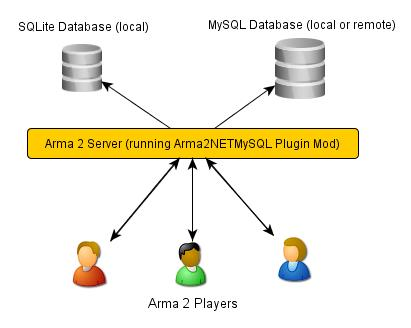
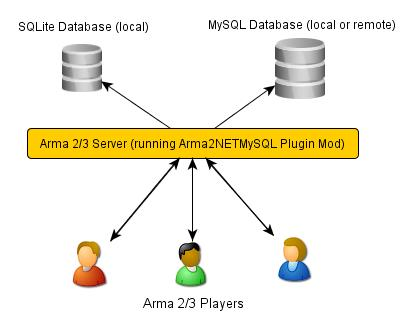
switch wording in readme from just Arma 2 to include Arma 3

Changed region(s): [[0.0876, 0.3963, 0.8467, 0.4573], [0.3504, 0.8841, 0.6131, 0.9451]]

diff --git a/ReadMe.html b/ReadMe.html
@@ -30,12 +30,13 @@
 <p>Links:</p>
 <ul>
 	<li><a href="https://github.com/firefly2442/Arma2NETMySQLPlugin">Arma2NETMySQLPlugin</a></li>
-	<li><a href="https://github.com/firefly2442/Arma2NetMySQLPlugin-ExampleMission">Arma2NETMySQL Plugin Example Mission</a></li>
+	<li><a href="https://github.com/firefly2442/Arma2NetMySQLPlugin-ExampleMission">Arma2NETMySQL Plugin Arma 2 Example Mission</a></li>
+	<li><a href="https://github.com/firefly2442/Arma2NetMySQLPlugin-Arma3-ExampleMission">Arma2NETMySQL Plugin Arma 3 Example Mission</a></li>
 </ul>
 
-<p>This program acts as an intermediary between Arma2 and a MySQL or SQLite database.  It uses the
+<p>This program acts as an intermediary between Arma2/Arma3 and a MySQL or SQLite database.  It uses the
 <a href="https://dev-heaven.net/projects/a2n">Arma2NET</a> wrapper system.  It is written in C#.  The program has to be run on the
-same system as your Arma2 server, however, the MySQL database can be either local or remote.  The SQLite database runs on the 
+same system as your Arma2/Arma3 server, however, the MySQL database can be either local or remote.  The SQLite database runs on the 
 local machine.</p>
 
 <p>History:</p>
@@ -54,6 +55,7 @@ system as created by <a href="http://forums.bistudio.com/member.php?30502-KH-Jma
 for saving data.  In addition, <a href="https://dev-heaven.net/projects/mso/wiki">MSO</a>, a modular mission framework uses
 it for saving information.
 </p>
+<p>With the recent Arma3 Alpha release, testing is ongoing.  However, the functionality appears to be working just like in Arma 2.</p>
 
 <img src="images/arma2mysql_graphic.jpg" />
 
@@ -79,13 +81,21 @@ To run the plugin:
 		for 32-bit Windows (.NET Framework 4.0)</a> The plugin has been successfully tested with version 1.0.84.0 (sqlite-netFx40-setup-bundle-x86-2010-1.0.84.0.exe)</li>
 	</ul>
 	<li><a href="http://www.microsoft.com/download/en/details.aspx?id=24872">Microsoft .NET Framework 4 Client Profile</a></li>
-	<li>Arma2OA Beta version 87640 or later (full client or dedicated server)</li>
-		<ul>
-			<li>See <a href="https://dev-heaven.net/issues/31028">here</a> for a note about Windows dedicated servers and required files.</li>
-			<li>I would recommend running whatever <a href="http://www.arma2.com/beta-patch.php" target="_blank">Beta version</a> is
-			the latest, while it may not be super stable, it should have the latest features.</li>
-		</ul>
-	</li>
+	<li>Arma 2 or Arma 3</li>
+	<ul>
+		<li>Arma2OA Beta version 87640 or later (full client or dedicated server)</li>
+			<ul>
+				<li>See <a href="https://dev-heaven.net/issues/31028">here</a> for a note about Windows dedicated servers and required files.</li>
+				<li>I would recommend running whatever <a href="http://www.arma2.com/beta-patch.php" target="_blank">Beta version</a> is
+				the latest, while it may not be super stable, it should have the latest features.</li>
+			</ul>
+		</li>
+		<li>Arma 3</li>
+			<ul>
+				<li>The recent Arma 3 Alpha is undergoing heavy development and new versions are being released constantly.  You can stay up-to-date
+				with Steam.</li>
+			</ul>
+	</ul>
 	<li><a href="https://dev-heaven.net/projects/a2n" target="_blank">Arma2NET</a>, this should already be included if you downloaded a compiled
 	version of this plugin.</li>
 </ul>
@@ -93,15 +103,15 @@ To run the plugin:
 
 <a name="howto"><h2>How To Use Arma2NETMySQL</h2></a>
 
-<p>Arma2NETMySQL looks two places for the relevant files and folders.  First, it checks the Arma2 root directory.  If it can't find
+<p>Arma2NETMySQL looks two places for the relevant files and folders.  First, it checks the Arma2/Arma3 root directory.  If it can't find
 them there, it looks in the AppData folder.  I would recommend using the AppData location if possible.  This makes future upgrades
-and changes easier to manage.  However, some people on limited rental servers may need to put them in the root Arma2 folder.
+and changes easier to manage.  However, some people on limited rental servers may need to put them in the root Arma2/Arma3 folder.
 Make sure the file/folder structure matches one of these.  Don't put some files in one location and some in the other,
 that could result in problems.</p>
 
 <ul>
 	<li>
-		<pre>This is just an example location, you'll have to figure out where your Arma2 folder is.</pre>
+		<pre>This is just an example location for Arma 2, you'll have to figure out where your Arma game folder is.</pre>
 		<pre>E:\Program Files\Steam\steamapps\common\arma 2 operation arrowhead\</pre>
 		<pre>E:\Program Files\Steam\steamapps\common\arma 2 operation arrowhead\Databases.txt</pre>
 		<pre>E:\Program Files\Steam\steamapps\common\arma 2 operation arrowhead\sqlite\</pre>
@@ -123,7 +133,7 @@ this should already be included and already setup correctly.</p>
 
 <ul>
 	<li>
-		<pre>This is just an example location, you'll have to figure out where your Arma2 folder is.</pre>
+		<pre>This is just an example location for Arma 2, you'll have to figure out where your Arma game folder is.</pre>
 		<pre>E:\Program Files\Steam\steamapps\common\arma 2 operation arrowhead\@Arma2NET\</pre>
 		<pre>E:\Program Files\Steam\steamapps\common\arma 2 operation arrowhead\@Arma2NET\Addins\</pre>
 		<pre>E:\Program Files\Steam\steamapps\common\arma 2 operation arrowhead\@Arma2NET\AddIns\Arma2NETMySQLPlugin\</pre>
@@ -200,15 +210,23 @@ this should already be included and already setup correctly.</p>
 				to create manually.</li>
 			</ul>
 	</ol>
-	<li>Run Arma2 and add @Arma2NET as a mod.  For example your command line parameters (for the server which connects to the database):
+	<li>Run Arma2/Arma3 and add @Arma2NET as a mod.  For example your command line parameters (for the server which connects to the database):
 		<pre>-mod=expansion\beta;expansion\beta\expansion;@Arma2NET</pre>
 		<p>This plugin doesn't require any other third party mods like ACE or CBA.  But, they do have some nice utility functions
 		and features that may be helpful when you make your missions.</p>
-		<p>Arma2 player clients do not need to do any of this.  They will interact with the Arma2 server and through SQF scripting, so you can
+		<p>Arma2/Arma3 player clients do not need to do any of this.  They will interact with the Arma2/Arma3 server and through SQF scripting, so you can
 		pass the information from the database back to them or use it however you need.</p>
 	</li>
-	<li>Look at the <a href="https://github.com/firefly2442/Arma2NetMySQLPlugin-ExampleMission">example mission</a>
-	for how to use the SQF scripting and get data inside the game.</li>
+	<li>For Arma 2:</li>
+		<ul>
+			<li>Look at the <a href="https://github.com/firefly2442/Arma2NetMySQLPlugin-ExampleMission">Arma 2 example mission</a>
+			for how to use the SQF scripting and get data inside the game.</li>
+		</ul>
+	<li>For Arma 3:</li>
+		<ul>
+			<li>Look at the <a href="https://github.com/firefly2442/Arma2NetMySQLPlugin-Arma3-ExampleMission">Arma 3 example mission</a>
+			for how to use the SQF scripting and get data inside the game.</li>
+		</ul>
 	<li>Use the array of arrays that are returned back.</li>
 	<li>Enjoy.</li>
 </ul>
@@ -223,21 +241,22 @@ it will return the string "TooLong".  Then you know you will need to limit the n
 you can use <a href="https://dev.mysql.com/doc/refman/5.0/en/select.html">the limit parameter</a>, or in SQLite,
 <a href="https://www.sqlite.org/lang_select.html">the limit parameter</a>.  This is a limitation of
 Arma2 so don't ask for this to be fixed.</p>
+<p>The length limit for Arma 3 appears to be similar, however, this may change in the future.</p>
 <p>Currently, commas cannot be used as data to be sent back and forth because the system uses commas to identify
 splitting up the database columns.  If you have a suggestion for how to solve this or would like to submit a fix, I would
 certainly appreciate it.</p>
 
 <a name="troubleshooting"><h2>Troubleshooting</h2></a>
 
-<p>If you are getting a returned result of "Error" in Arma2, this means there's something wrong with your query.  Check
+<p>If you are getting a returned result of "Error" in the game, this means there's something wrong with your query.  Check
 the logs to track down the problem.</p>
 <p>Stuck?  First check the "logs" folder.  The plugin creates a new log file each time it's run.  Go into your appdata folder
-or the root Arma2 folder and then find the "logs" folder.  If there are errors or things, they will show up there.
+or the root Arma game folder and then find the "logs" folder.  If there are errors or things, they will show up there.
 <pre>C:\Users\Yourname\AppData\Local\Arma2NETMySQL\logs\</pre>
 If you don't have a logs folder or it's empty, this is a sign the plugin isn't running.  Try the second step:</p>
 <p>Arma2NET also stores log files which are located here: <pre>C:\Users\Yourname\AppData\Local\Arma2NET\</pre>
 This will tell you if the plugin is loading appropriately.  If it's not, check your launcher and make sure that is all correct.</p>
-<p>You can also check the RPT files generated by Arma 2.  These are located here: <pre>C:\Users\Yourname\AppData\Local\ArmA 2 OA\</pre>
+<p>You can also check the RPT files generated by Arma 2/Arma 3.  These are located here: <pre>C:\Users\Yourname\AppData\Local\{ArmA 2 OA\Arma 3}</pre>
 These can get very long so scroll all the way to the bottom to see the latest run.  This will tell you if you have an error in
 your SQF scripting code or other such problems.  Note, these path locations are for Windows 7 (and Vista?) and may be different
 for other versions of Windows.</p>
@@ -267,7 +286,7 @@ if Arma2NETMySQL loaded in correctly.  Then you can run straight commands as out
 <pre>Arma2NETMySQLCommand ['weapons', 'SELECT * FROM users LIMIT 3']</pre>
 
 <p>If the Databases.txt file and your database is setup correctly, you can run straight commands here and see the result.  This is
-extremely helpful for testing without having to load up Arma2.  Make sure if you make a change to the C# code that you recompile and copy
+extremely helpful for testing without having to load up the entire game.  Make sure if you make a change to the C# code that you recompile and copy
 over the .DLL to the appropriate folder, otherwise you'll be running the old version and won't see any changes.</p>
 
 <a name="changelog"><h2>Changelog</h2></a>
